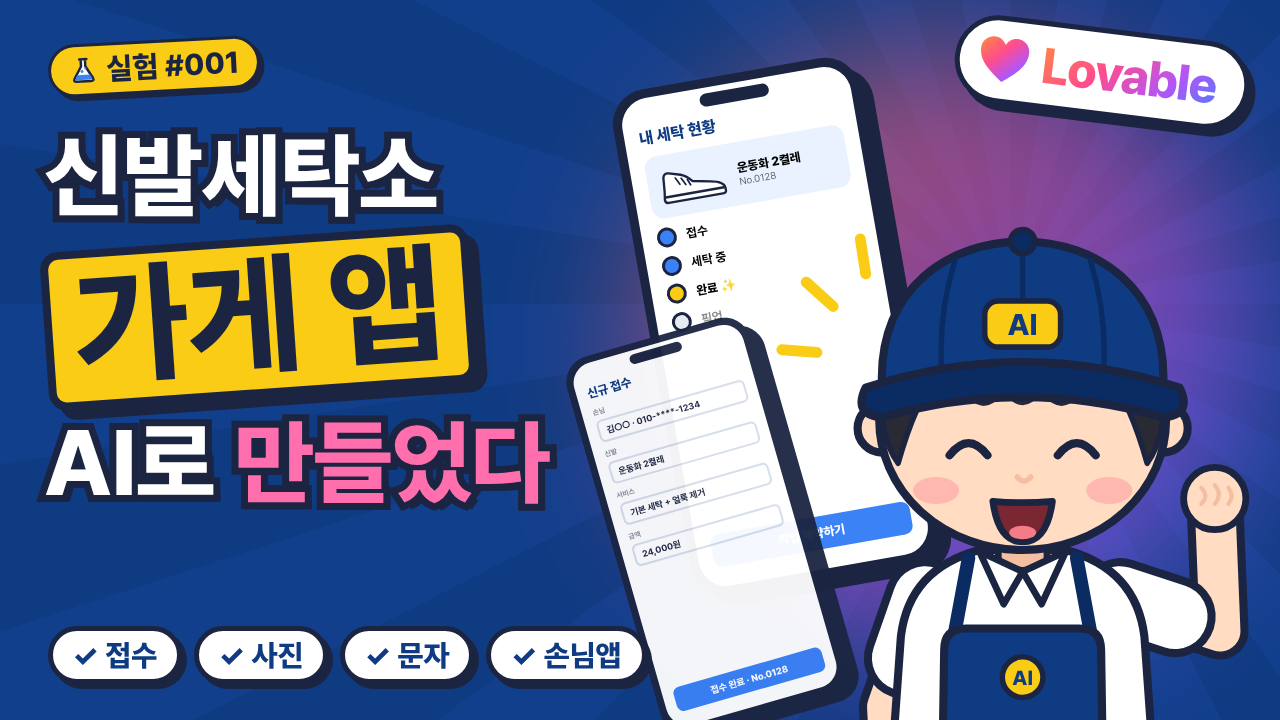
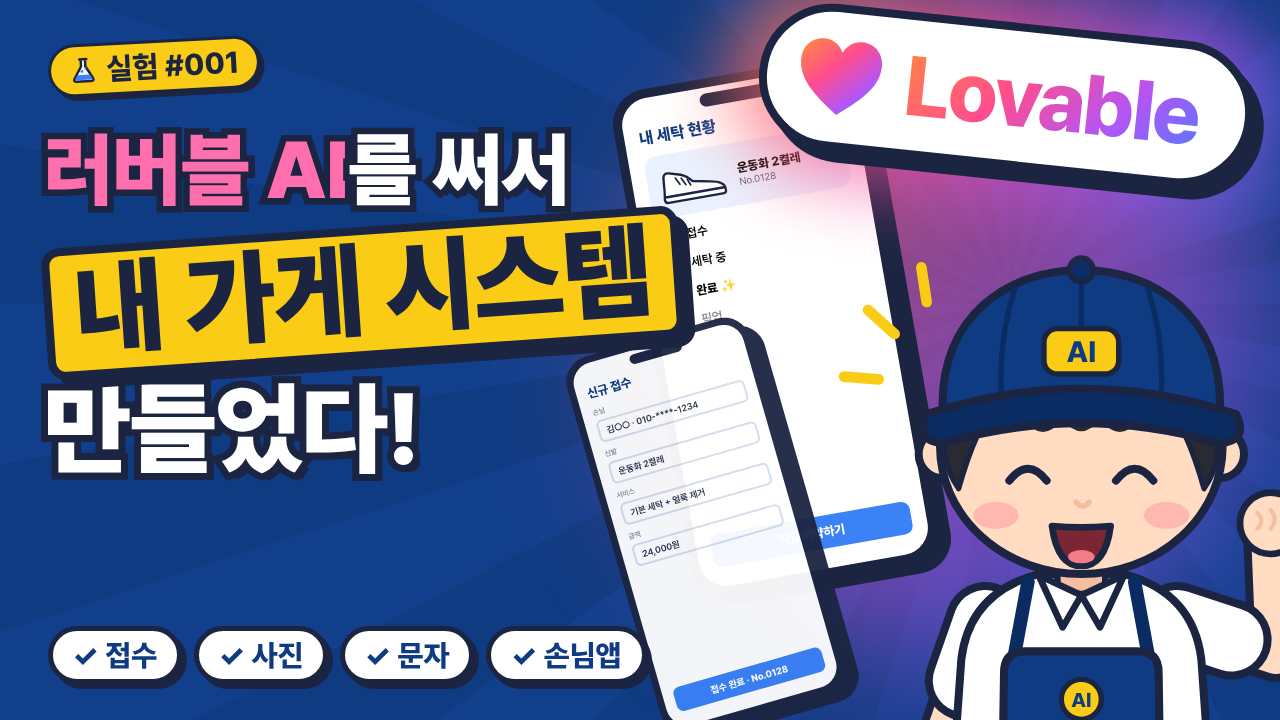
Ep001 thumbnail A: new headline, larger Lovable badge
Claude-Session: https://claude.ai/code/session_01SVT5fyoZvXGm5ZZGhqmtrr

diff --git a/src/episodes/ep001/Thumbs.tsx b/src/episodes/ep001/Thumbs.tsx
@@ -36,24 +36,27 @@ export const Ep001ThumbDynamicA: React.FC = () => (
       <IntakeScreen w={190} />
     </div>
     {/* 캐릭터 */}
-    <div style={{ position: "absolute", right: -40, bottom: -110 }}>
-      <Boss pose="happy" size={690} />
+    <div style={{ position: "absolute", right: -95, bottom: -130 }}>
+      <Boss pose="happy" size={680} />
     </div>
     {/* 러버블 배지 */}
-    <div style={{ position: "absolute", right: 30, top: 28, transform: "rotate(7deg)" }}>
-      <LovableBadge size={50} />
+    <div style={{ position: "absolute", right: 26, top: 22, transform: "rotate(6deg)" }}>
+      <div style={{ position: "absolute", inset: -30, background: LOVABLE_GRADIENT, filter: "blur(36px)", opacity: 0.7, borderRadius: 999 }} />
+      <LovableBadge size={84} style={{ position: "relative" }} />
     </div>
     {/* 텍스트 */}
     <div style={{ position: "absolute", left: 48, top: 40, transform: "rotate(-3deg)" }}>
       <ExperimentTag no={1} size={30} />
     </div>
     <div style={{ position: "absolute", left: 44, top: 128, fontWeight: 900, letterSpacing: "-0.05em", lineHeight: 1.04 }}>
-      <div style={{ fontSize: 92, color: color.white, ...outlineText(14), textShadow: `7px 7px 0 ${color.ink}` }}>신발세탁소</div>
-      <div style={{ display: "inline-block", marginTop: 14, background: color.accent, border: `8px solid ${color.ink}`, borderRadius: 18, padding: "0 22px 6px", transform: "rotate(-4deg)", boxShadow: ui.shadow(10) }}>
-        <span style={{ fontSize: 132, color: color.ink }}>가게 앱</span>
+      <div style={{ fontSize: 80, color: color.white, ...outlineText(13), textShadow: `6px 6px 0 ${color.ink}` }}>
+        <span style={{ color: "#FF6FAE" }}>러버블 AI</span>를 써서
       </div>
-      <div style={{ marginTop: 18, fontSize: 92, color: color.white, ...outlineText(14), textShadow: `7px 7px 0 ${color.ink}` }}>
-        AI로 <span style={{ color: "#FF6FAE" }}>만들었다</span>
+      <div style={{ display: "inline-block", marginTop: 16, background: color.accent, border: `8px solid ${color.ink}`, borderRadius: 18, padding: "0 22px 8px", transform: "rotate(-4deg)", boxShadow: ui.shadow(10) }}>
+        <span style={{ fontSize: 104, color: color.ink }}>내 가게 시스템</span>
+      </div>
+      <div style={{ marginTop: 18, fontSize: 100, color: color.white, ...outlineText(14), textShadow: `7px 7px 0 ${color.ink}` }}>
+        만들었다!
       </div>
     </div>
     {/* 기능 칩 */}
